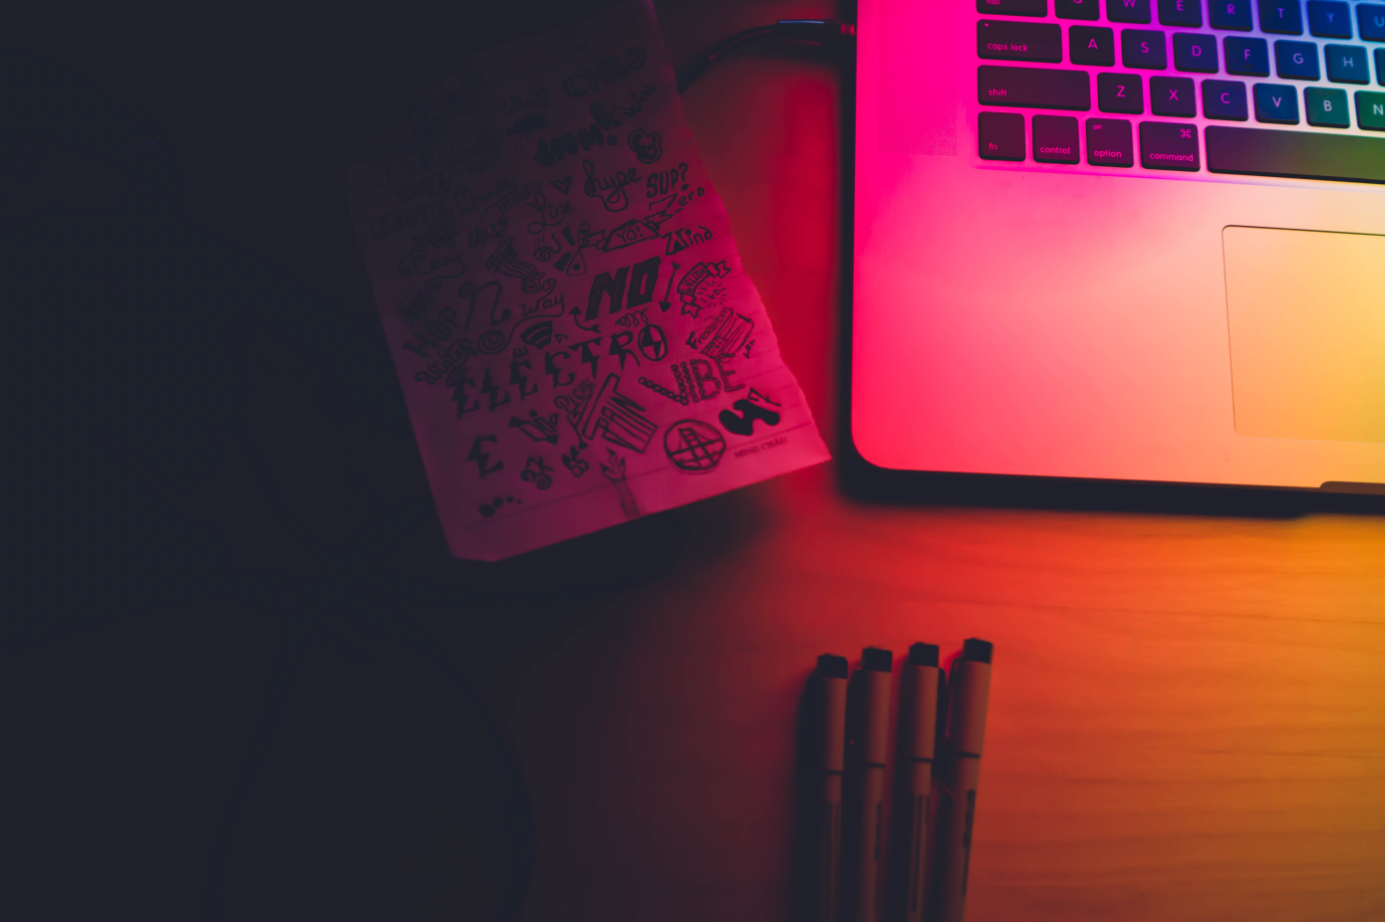
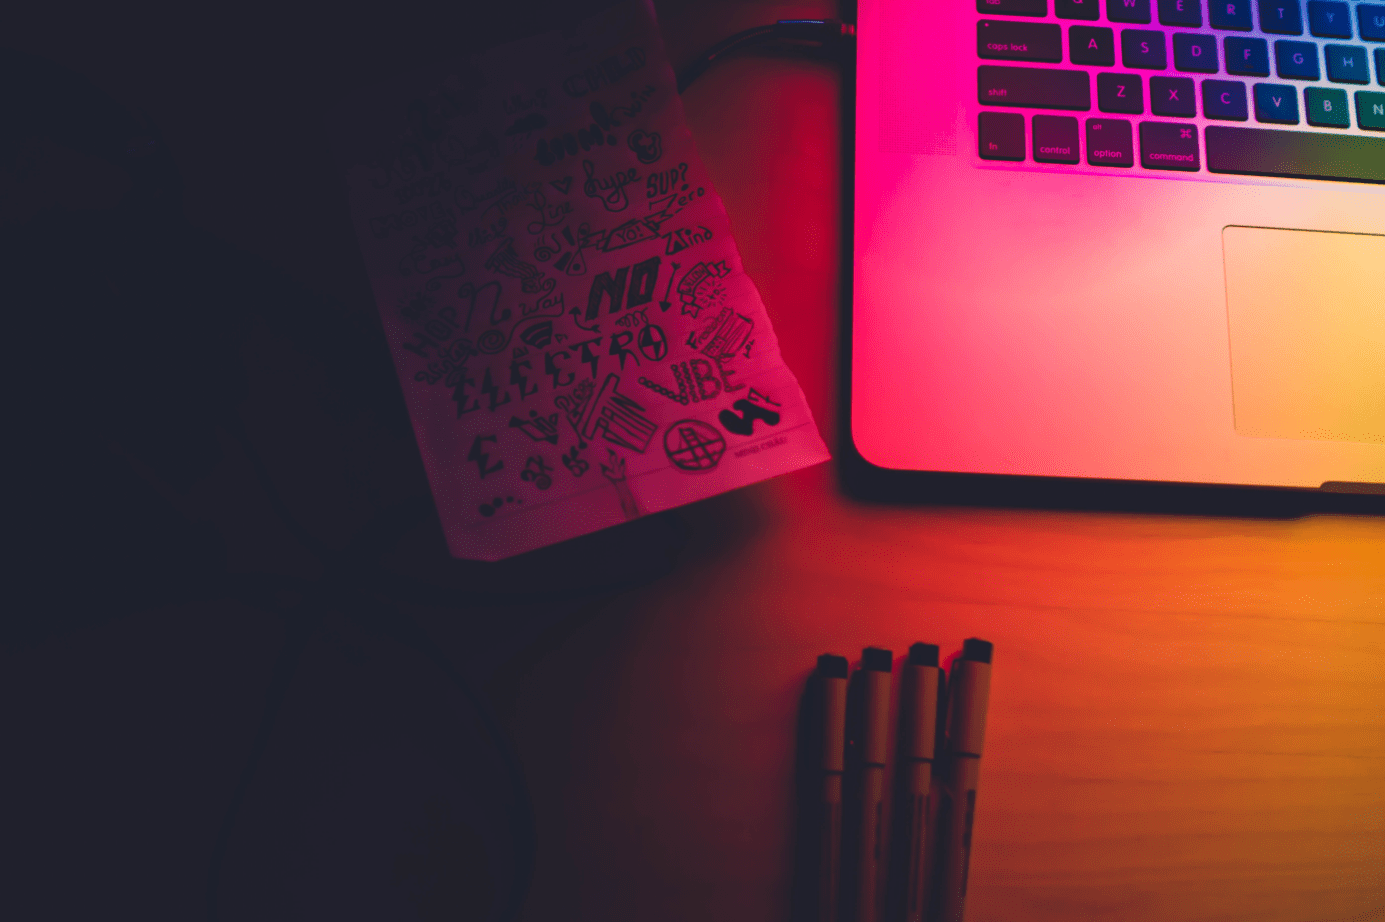
Optimisation

diff --git a/css/style.css b/css/style.css
@@ -492,6 +492,8 @@ footer .col-lg-4 button{
     font-family: 'Roboto';
     padding:180px;
     padding-bottom:100px;
+    background-repeat:no-repeat;
+    background-size:fill;
     background: url(../images/content_bg.png);
     background-position: 20%;
     box-shadow: inset 0 0 0 1000px rgba(0,0,0,.3);
